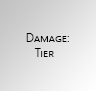
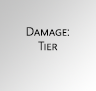
Turrets Max out at Tier IX in every stat

Changed region(s): [[0.25, 0.2857, 0.7188, 0.6374]]

diff --git a/LSD.java b/LSD.java
@@ -420,8 +420,7 @@ public class LSD
       
       for(int i = 0; i < damageString.length(); i++)
       {
-        System.out.println("resources/numbers/" + damageString.charAt(0) + ".png");
-        damageTier.add(new MiscImage(80, 8, 130, 12, "resources/numbers/" + damageString.charAt(0) + ".png"));
+        damageTier.add(new MiscImage(60, 8, 133, 12, "resources/tiers/" + damageString.charAt(0) + ".png"));
       }
       
     }
@@ -434,7 +433,7 @@ public class LSD
       
       for(int i = 0; i < rangeString.length(); i++)
       {
-        rangeTier.add(new MiscImage(80, 8, 230, 12, "resources/numbers/" + rangeString.charAt(0) + ".png"));
+        rangeTier.add(new MiscImage(60, 8, 234, 12, "resources/tiers/" + rangeString.charAt(0) + ".png"));
       }
       
     }
@@ -447,7 +446,7 @@ public class LSD
       
       for(int i = 0; i < rateString.length(); i++)
       {
-        rateTier.add(new MiscImage(80, 8, 330, 12, "resources/numbers/" + rateString.charAt(0) + ".png"));
+        rateTier.add(new MiscImage(60, 8, 335, 12, "resources/tiers/" + rateString.charAt(0) + ".png"));
       }
       
     }
@@ -468,7 +467,7 @@ public class LSD
       public void mouseClicked  (MouseEvent e)
       {
         
-        if(upDamage.checkBounds(e.getX(), e.getY()))
+        if(upDamage.checkBounds(e.getX(), e.getY()) && towers.get(index).getUpDamage() < 8)
         {
           upDamage.setImg("resources/popup/upDamageClicked.png");
           towers.get(index).upgrade("Damage");
@@ -481,7 +480,7 @@ public class LSD
           upDamage.setImg("resources/popup/upDamage.png");
         }
         
-        if(upRange.checkBounds(e.getX(), e.getY()))
+        if(upRange.checkBounds(e.getX(), e.getY()) && towers.get(index).getUpRange() < 8)
         {
           upRange.setImg("resources/popup/upRangeClicked.png");
           towers.get(index).upgrade("Range");
@@ -494,7 +493,7 @@ public class LSD
           upRange.setImg("resources/popup/upRange.png");
         }
         
-        if(upRate.checkBounds(e.getX(), e.getY()))
+        if(upRate.checkBounds(e.getX(), e.getY()) && towers.get(index).getUpPeriod() < 8)
         {
           upRate.setImg("resources/popup/upRateClicked.png");
           towers.get(index).upgrade("Rate");
@@ -514,8 +513,9 @@ public class LSD
       public void mouseMoved    (MouseEvent e)
       {
         
-        if(upDamage.checkBounds(e.getX(), e.getY()))
+        if(upDamage.checkBounds(e.getX(), e.getY()) && towers.get(index).getUpDamage() < 8)
         {
+          System.out.println(towers.get(index).getUpDamage());
           upDamage.setImg("resources/popup/upDamageSelected.png");
         }
         else
@@ -523,7 +523,7 @@ public class LSD
           upDamage.setImg("resources/popup/upDamage.png");
         }
         
-        if(upRange.checkBounds(e.getX(), e.getY()))
+        if(upRange.checkBounds(e.getX(), e.getY()) && towers.get(index).getUpRange() < 8)
         {
           upRange.setImg("resources/popup/upRangeSelected.png");
         }
@@ -532,7 +532,7 @@ public class LSD
           upRange.setImg("resources/popup/upRange.png");
         }
         
-        if(upRate.checkBounds(e.getX(), e.getY()))
+        if(upRate.checkBounds(e.getX(), e.getY()) && towers.get(index).getUpPeriod() < 8)
         {
           upRate.setImg("resources/popup/upRateSelected.png");
         }
